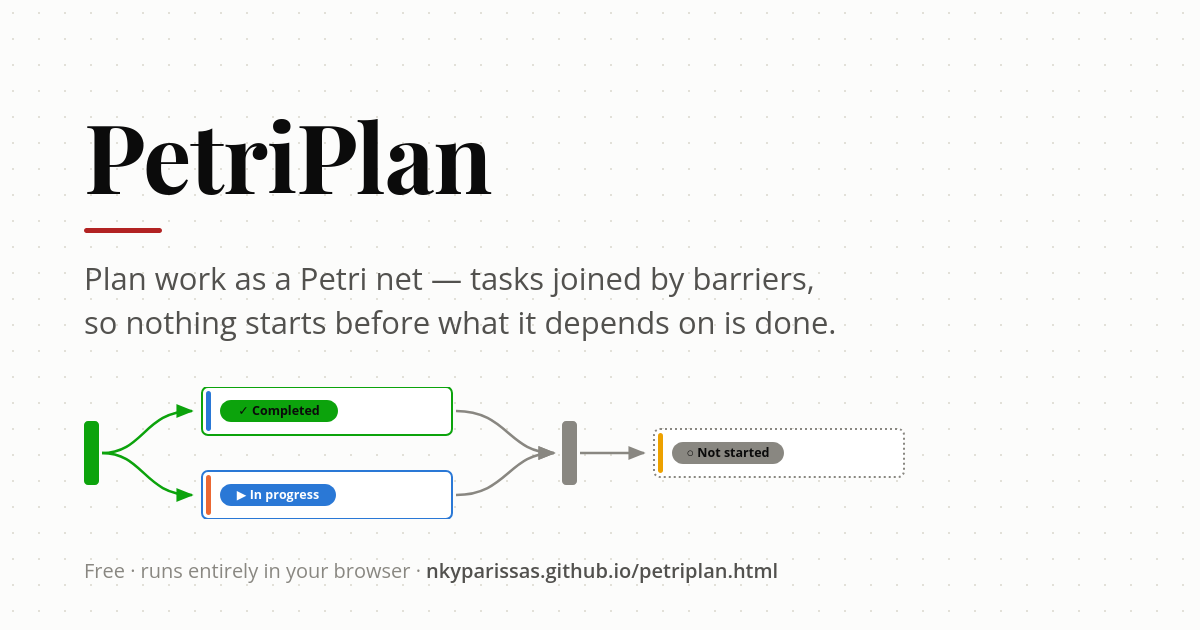
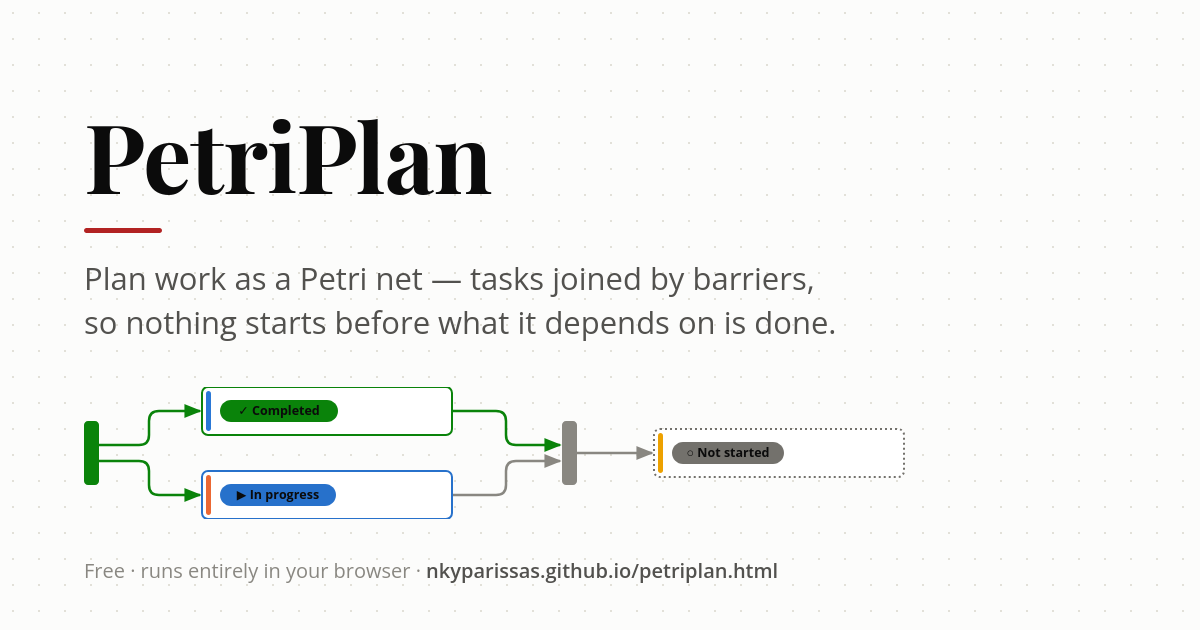
PetriPlan: tidier edges

diff --git a/js/petriplan.js b/js/petriplan.js
@@ -498,11 +498,12 @@
 	function renderEdges() {
 		clear(edgeLayer);
 		edgeEls = {};
+		var ctx = routingContext();
 		allEdges().forEach(function (e) {
 			var a = model.nodes[e.from], b = model.nodes[e.to];
 			if (!a || !b) return;
 
-			var d = edgePath(outAnchor(a), inAnchor(b));
+			var d = edgePathFor(e, a, b, ctx);
 			var g = el('g', null, edgeLayer);
 
 			var hit = el('path', { d: d, 'class': 'edge-hit' }, g);
@@ -518,13 +519,220 @@
 		});
 	}
 
-	function edgePath(a, b) {
-		var bx = b.x - 3;                              // leave room for the arrowhead
-		var dx = Math.max(38, Math.abs(bx - a.x) * 0.45);
-		return 'M ' + a.x + ' ' + a.y +
-		       ' C ' + (a.x + dx) + ' ' + a.y +
-		       ', ' + (bx - dx) + ' ' + b.y +
-		       ', ' + bx + ' ' + b.y;
+	/* ------------------------------------------------------------ edge routing
+	 *
+	 * Edges are orthogonal polylines with rounded corners rather than free
+	 * curves, because a curve cannot be steered around anything. Every route is
+	 * built from axis-aligned segments, which makes the obstacle test a pair of
+	 * interval overlaps instead of general segment/rectangle intersection.
+	 *
+	 * Several routes are proposed per edge, cheapest first, and the first one
+	 * that touches no other node wins. This is not a general path-finder: it
+	 * handles the cases a left-to-right dependency graph actually produces —
+	 * a straight run, a step between rows, and a detour over or under whatever
+	 * sits in the way.
+	 */
+
+	var EDGE_STUB = 18;      // straight run off a node before the first turn
+	var EDGE_APPROACH = 34;  // longer run into a node on a detour, so the last
+	                         // corner is a sweep rather than a cramped hook
+	var EDGE_CLEAR = 12;     // keep this far away from other nodes
+	var EDGE_LABEL_CLEAR = 5;
+	var EDGE_RADIUS = 10;    // corner rounding
+
+	function nodeRect(n, pad) {
+		return {
+			x0: n.x - pad, y0: n.y - pad,
+			x1: n.x + nodeW(n) + pad, y1: n.y + nodeH(n) + pad
+		};
+	}
+
+	/* The label sits above the node, centred, and is regularly wider than what it
+	   labels — "Project complete" renders ~110px over an 18px barrier. Routing
+	   around the box alone therefore still draws lines through the text. */
+	function labelRect(n) {
+		var chars = Math.min((n.label || '').length, n.type === 'task' ? 30 : 22);
+		var half = Math.max(nodeW(n), chars * 6.6) / 2;
+		var mid = n.x + nodeW(n) / 2;
+		return {
+			x0: mid - half - EDGE_LABEL_CLEAR,
+			y0: n.y - 22 - EDGE_LABEL_CLEAR,
+			x1: mid + half + EDGE_LABEL_CLEAR,
+			y1: n.y - 2 + EDGE_LABEL_CLEAR
+		};
+	}
+
+	/* Routes are axis-aligned by construction, so this only has to handle
+	   horizontal and vertical segments. */
+	function segHitsRect(p, q, r) {
+		if (p.y === q.y) {
+			if (p.y <= r.y0 || p.y >= r.y1) return false;
+			return Math.max(p.x, q.x) > r.x0 && Math.min(p.x, q.x) < r.x1;
+		}
+		if (p.x === q.x) {
+			if (p.x <= r.x0 || p.x >= r.x1) return false;
+			return Math.max(p.y, q.y) > r.y0 && Math.min(p.y, q.y) < r.y1;
+		}
+		return false;
+	}
+
+	function routeBlocked(pts, rects) {
+		for (var i = 0; i < pts.length - 1; i++) {
+			for (var j = 0; j < rects.length; j++) {
+				if (segHitsRect(pts[i], pts[i + 1], rects[j])) return true;
+			}
+		}
+		return false;
+	}
+
+	function routeEdge(A, B, rects) {
+		var bx = B.x - 2;                       // room for the arrowhead
+		var start = { x: A.x, y: A.y }, end = { x: bx, y: B.y };
+		var level = Math.abs(A.y - B.y) < 0.5;
+		var cands = [];
+
+		if (level) cands.push([start, end]);
+
+		if (bx - A.x > EDGE_STUB * 2) {
+			var mx = Math.round((A.x + bx) / 2);
+			cands.push([start, { x: mx, y: A.y }, { x: mx, y: B.y }, end]);
+		}
+
+		/* Only nodes standing between the two ends can force a detour. */
+		var lo = Math.min(A.x, bx), hi = Math.max(A.x, bx);
+		var between = rects.filter(function (r) { return r.x1 > lo && r.x0 < hi; });
+
+		if (between.length) {
+			var top = Infinity, bottom = -Infinity;
+			between.forEach(function (r) {
+				top = Math.min(top, r.y0);
+				bottom = Math.max(bottom, r.y1);
+			});
+			var ax2 = A.x + EDGE_STUB, bx2 = bx - EDGE_APPROACH;
+			var lanes = [bottom + EDGE_CLEAR, top - EDGE_CLEAR];
+			/* Try whichever side is the shorter deviation first. */
+			if (Math.abs(lanes[1] - A.y) < Math.abs(lanes[0] - A.y)) lanes.reverse();
+			lanes.forEach(function (ly) {
+				cands.push([
+					start, { x: ax2, y: A.y }, { x: ax2, y: ly },
+					{ x: bx2, y: ly }, { x: bx2, y: B.y }, end
+				]);
+			});
+		}
+
+		/* Target sits left of the source (only reachable by dragging): leave and
+		   enter forwards, looping around outside everything in between. */
+		if (bx - A.x <= EDGE_STUB * 2) {
+			var outY = (between.length
+				? Math.max.apply(null, between.map(function (r) { return r.y1; })) + EDGE_CLEAR
+				: Math.max(A.y, B.y) + 60);
+			cands.push([
+				start, { x: A.x + EDGE_STUB, y: A.y }, { x: A.x + EDGE_STUB, y: outY },
+				{ x: bx - EDGE_APPROACH, y: outY }, { x: bx - EDGE_APPROACH, y: B.y }, end
+			]);
+		}
+
+		for (var i = 0; i < cands.length; i++) {
+			if (!routeBlocked(cands[i], rects)) return cands[i];
+		}
+		/* Nothing clear: fall back to the tidiest shape rather than nothing. */
+		return cands[cands.length - 1] || [start, end];
+	}
+
+	function tidyPoints(pts) {
+		var out = [];
+		pts.forEach(function (p) {
+			var last = out[out.length - 1];
+			if (last && Math.abs(last.x - p.x) < 0.5 && Math.abs(last.y - p.y) < 0.5) return;
+			out.push(p);
+		});
+		/* Drop a middle point that lies on a straight run. */
+		for (var i = 1; i < out.length - 1; i++) {
+			var p0 = out[i - 1], p1 = out[i], p2 = out[i + 1];
+			if ((p0.x === p1.x && p1.x === p2.x) || (p0.y === p1.y && p1.y === p2.y)) {
+				out.splice(i, 1);
+				i--;
+			}
+		}
+		return out;
+	}
+
+	function roundedPath(pts, radius) {
+		pts = tidyPoints(pts);
+		if (pts.length < 2) return '';
+		if (pts.length === 2) {
+			return 'M ' + pts[0].x + ' ' + pts[0].y + ' L ' + pts[1].x + ' ' + pts[1].y;
+		}
+
+		var d = 'M ' + pts[0].x + ' ' + pts[0].y;
+		for (var i = 1; i < pts.length - 1; i++) {
+			var p0 = pts[i - 1], p1 = pts[i], p2 = pts[i + 1];
+			var d1 = Math.hypot(p1.x - p0.x, p1.y - p0.y);
+			var d2 = Math.hypot(p2.x - p1.x, p2.y - p1.y);
+			var r = Math.min(radius, d1 / 2, d2 / 2);
+			if (r < 0.5) { d += ' L ' + p1.x + ' ' + p1.y; continue; }
+			var t1 = { x: p1.x + (p0.x - p1.x) * (r / d1), y: p1.y + (p0.y - p1.y) * (r / d1) };
+			var t2 = { x: p1.x + (p2.x - p1.x) * (r / d2), y: p1.y + (p2.y - p1.y) * (r / d2) };
+			d += ' L ' + round1(t1.x) + ' ' + round1(t1.y) +
+			     ' Q ' + p1.x + ' ' + p1.y + ' ' + round1(t2.x) + ' ' + round1(t2.y);
+		}
+		var last = pts[pts.length - 1];
+		return d + ' L ' + last.x + ' ' + last.y;
+	}
+
+	function round1(v) { return Math.round(v * 10) / 10; }
+
+	/* Everything a routing pass needs, built once instead of per edge: the
+	   obstacles to avoid, and where each edge should attach. */
+	function routingContext() {
+		var rects = [];
+		allNodes().forEach(function (n) {
+			rects.push({ id: n.id, r: nodeRect(n, EDGE_CLEAR) });
+			rects.push({ id: n.id, r: labelRect(n) });
+		});
+		return { rects: rects, anchors: buildAnchors() };
+	}
+
+	/* Several edges meeting one node used to land on the same point, so their
+	   arrowheads stacked. Spread them along the node's edge instead, ordered by
+	   where the other end sits so the lines do not cross each other on the way in. */
+	function buildAnchors() {
+		var out = {}, into = {};
+		var centreY = function (id) {
+			var n = model.nodes[id];
+			return n ? n.y + nodeH(n) / 2 : 0;
+		};
+
+		allNodes().forEach(function (n) {
+			var h = nodeH(n);
+			var spread = function (edges, otherEnd, x, store) {
+				edges.sort(function (p, q) { return centreY(otherEnd(p)) - centreY(otherEnd(q)); });
+				var c = edges.length;
+				var gap = c > 1 ? Math.min(16, (h * 0.62) / (c - 1)) : 0;
+				edges.forEach(function (e, i) {
+					store[e.id] = {
+						x: x,
+						y: Math.round(n.y + h / 2 + (i - (c - 1) / 2) * gap)
+					};
+				});
+			};
+			spread(allEdges().filter(function (e) { return e.from === n.id; }),
+				function (e) { return e.to; }, n.x + nodeW(n), out);
+			spread(allEdges().filter(function (e) { return e.to === n.id; }),
+				function (e) { return e.from; }, n.x, into);
+		});
+
+		return { out: out, in: into };
+	}
+
+	function edgePathFor(e, a, b, ctx) {
+		var rects = [];
+		for (var i = 0; i < ctx.rects.length; i++) {
+			if (ctx.rects[i].id !== a.id && ctx.rects[i].id !== b.id) rects.push(ctx.rects[i].r);
+		}
+		var A = ctx.anchors.out[e.id] || outAnchor(a);
+		var B = ctx.anchors.in[e.id] || inAnchor(b);
+		return roundedPath(routeEdge(A, B, rects), EDGE_RADIUS);
 	}
 
 	function renderNodes() {
@@ -616,17 +824,28 @@
 		return g;
 	}
 
-	/* Cheap position update during a drag — avoids a full rebuild per frame. */
-	function moveNodeEl(id) {
-		var n = model.nodes[id], g = nodeEls[id];
-		if (!n || !g) return;
-		g.setAttribute('transform', 'translate(' + n.x + ',' + n.y + ')');
+	/* Move node elements without rebuilding the DOM. */
+	function moveNodeEls(ids) {
+		ids.forEach(function (id) {
+			var n = model.nodes[id], g = nodeEls[id];
+			if (n && g) g.setAttribute('transform', 'translate(' + n.x + ',' + n.y + ')');
+		});
+		refreshEdgePaths();
+	}
+
+	function moveNodeEl(id) { moveNodeEls([id]); }
+
+	/* Every edge is re-routed, not only those touching the moved node: moving a
+	   node reorders the fanned anchors at its neighbours, which shifts edges that
+	   do not touch it. Routing the whole graph costs a few milliseconds and this
+	   only rewrites the `d` attribute, so there is no DOM churn. */
+	function refreshEdgePaths() {
+		var ctx = routingContext();
 		allEdges().forEach(function (e) {
-			if (e.from !== id && e.to !== id) return;
 			var refs = edgeEls[e.id];
 			var a = model.nodes[e.from], b = model.nodes[e.to];
 			if (!refs || !a || !b) return;
-			var d = edgePath(outAnchor(a), inAnchor(b));
+			var d = edgePathFor(e, a, b, ctx);
 			refs.path.setAttribute('d', d);
 			refs.hit.setAttribute('d', d);
 		});
@@ -1806,8 +2025,8 @@
 				if (!nd || !o) return;
 				nd.x = Math.round(w.x - o.dx);
 				nd.y = Math.round(w.y - o.dy);
-				moveNodeEl(id);
 			});
+			moveNodeEls(drag.ids);      /* one re-route for the whole group */
 			return;
 		}
 
